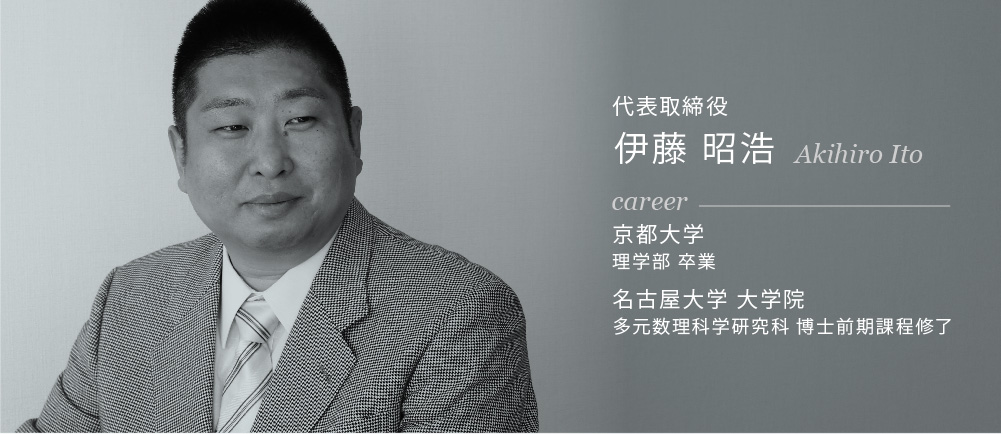
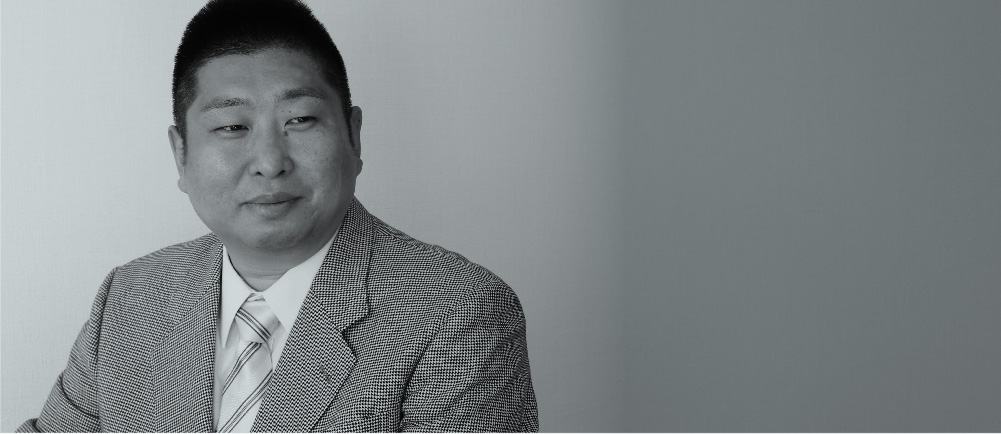
メンバー紹介の写真をjpgとsvgに分離する

diff --git a/public/style.css b/public/style.css
@@ -61,6 +61,16 @@ box model
     margin: 0 0 20px 0;
 }
 
+/*******************************************************************************
+* メンバー紹介
+*******************************************************************************/
+.picture-set {
+    position: relative;
+}
+.picture-set .career {
+    margin-top: -100%;
+}
+
 /*----
 新着情報, イベント予定
 ----*/
